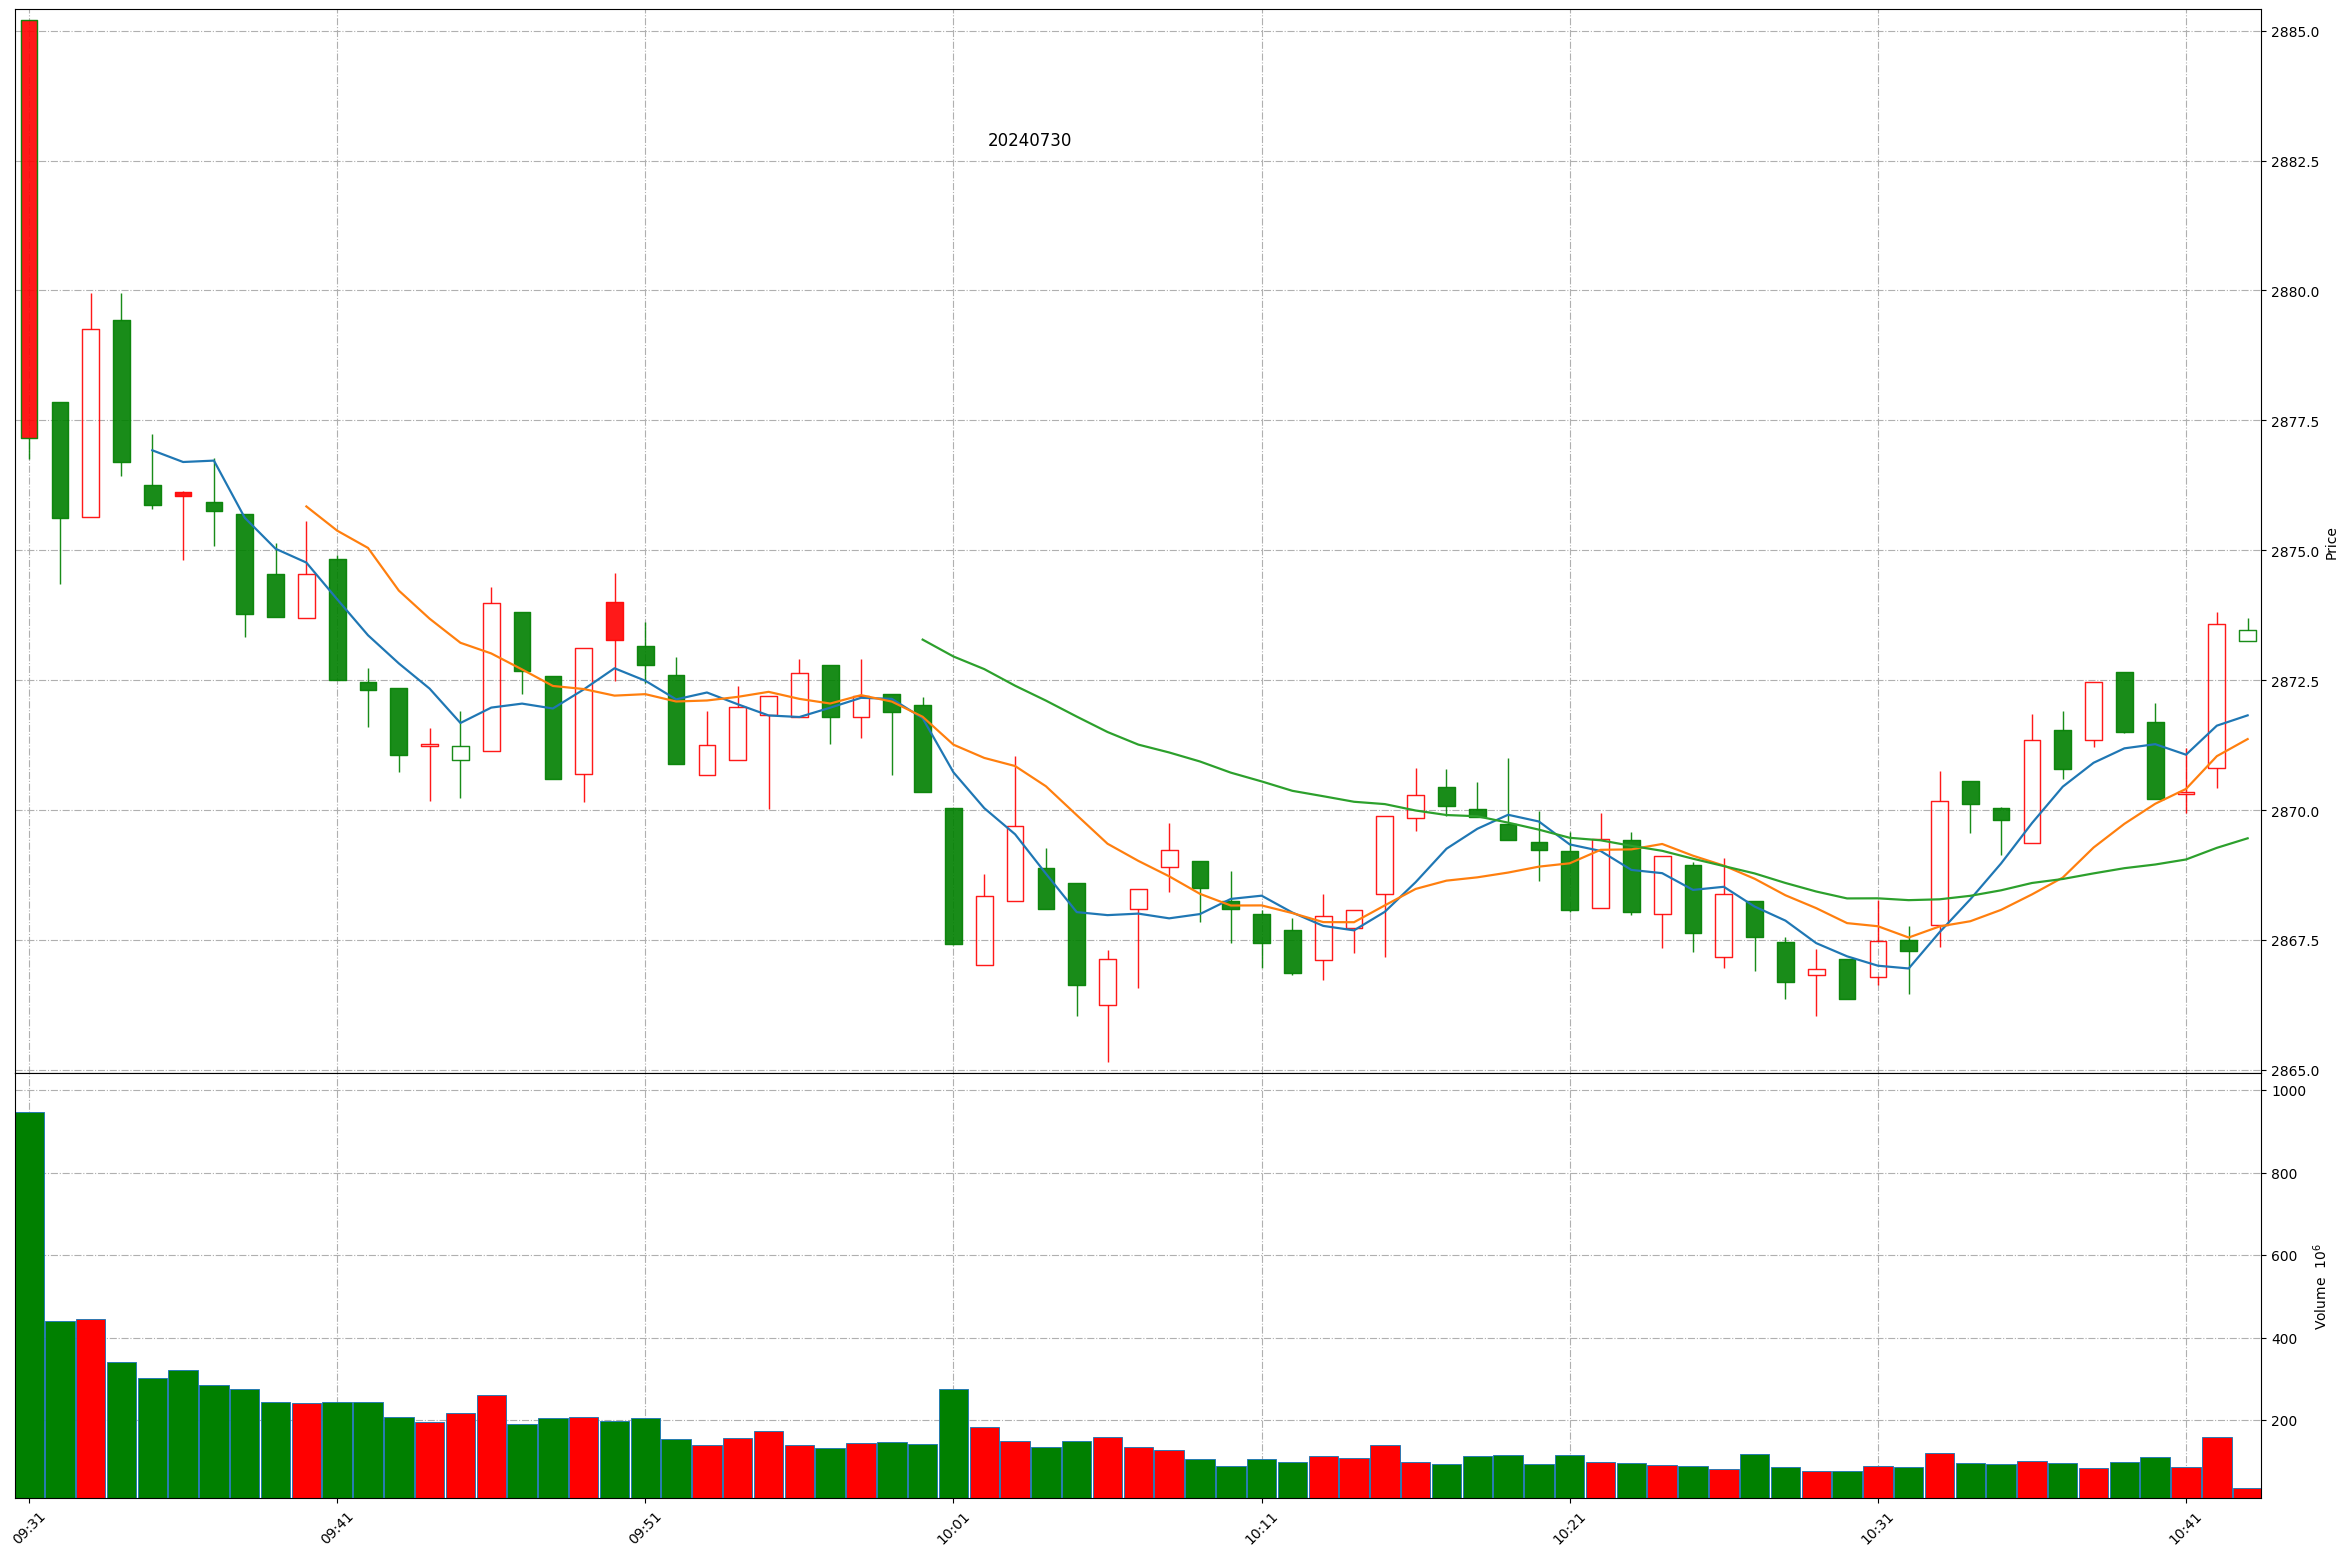
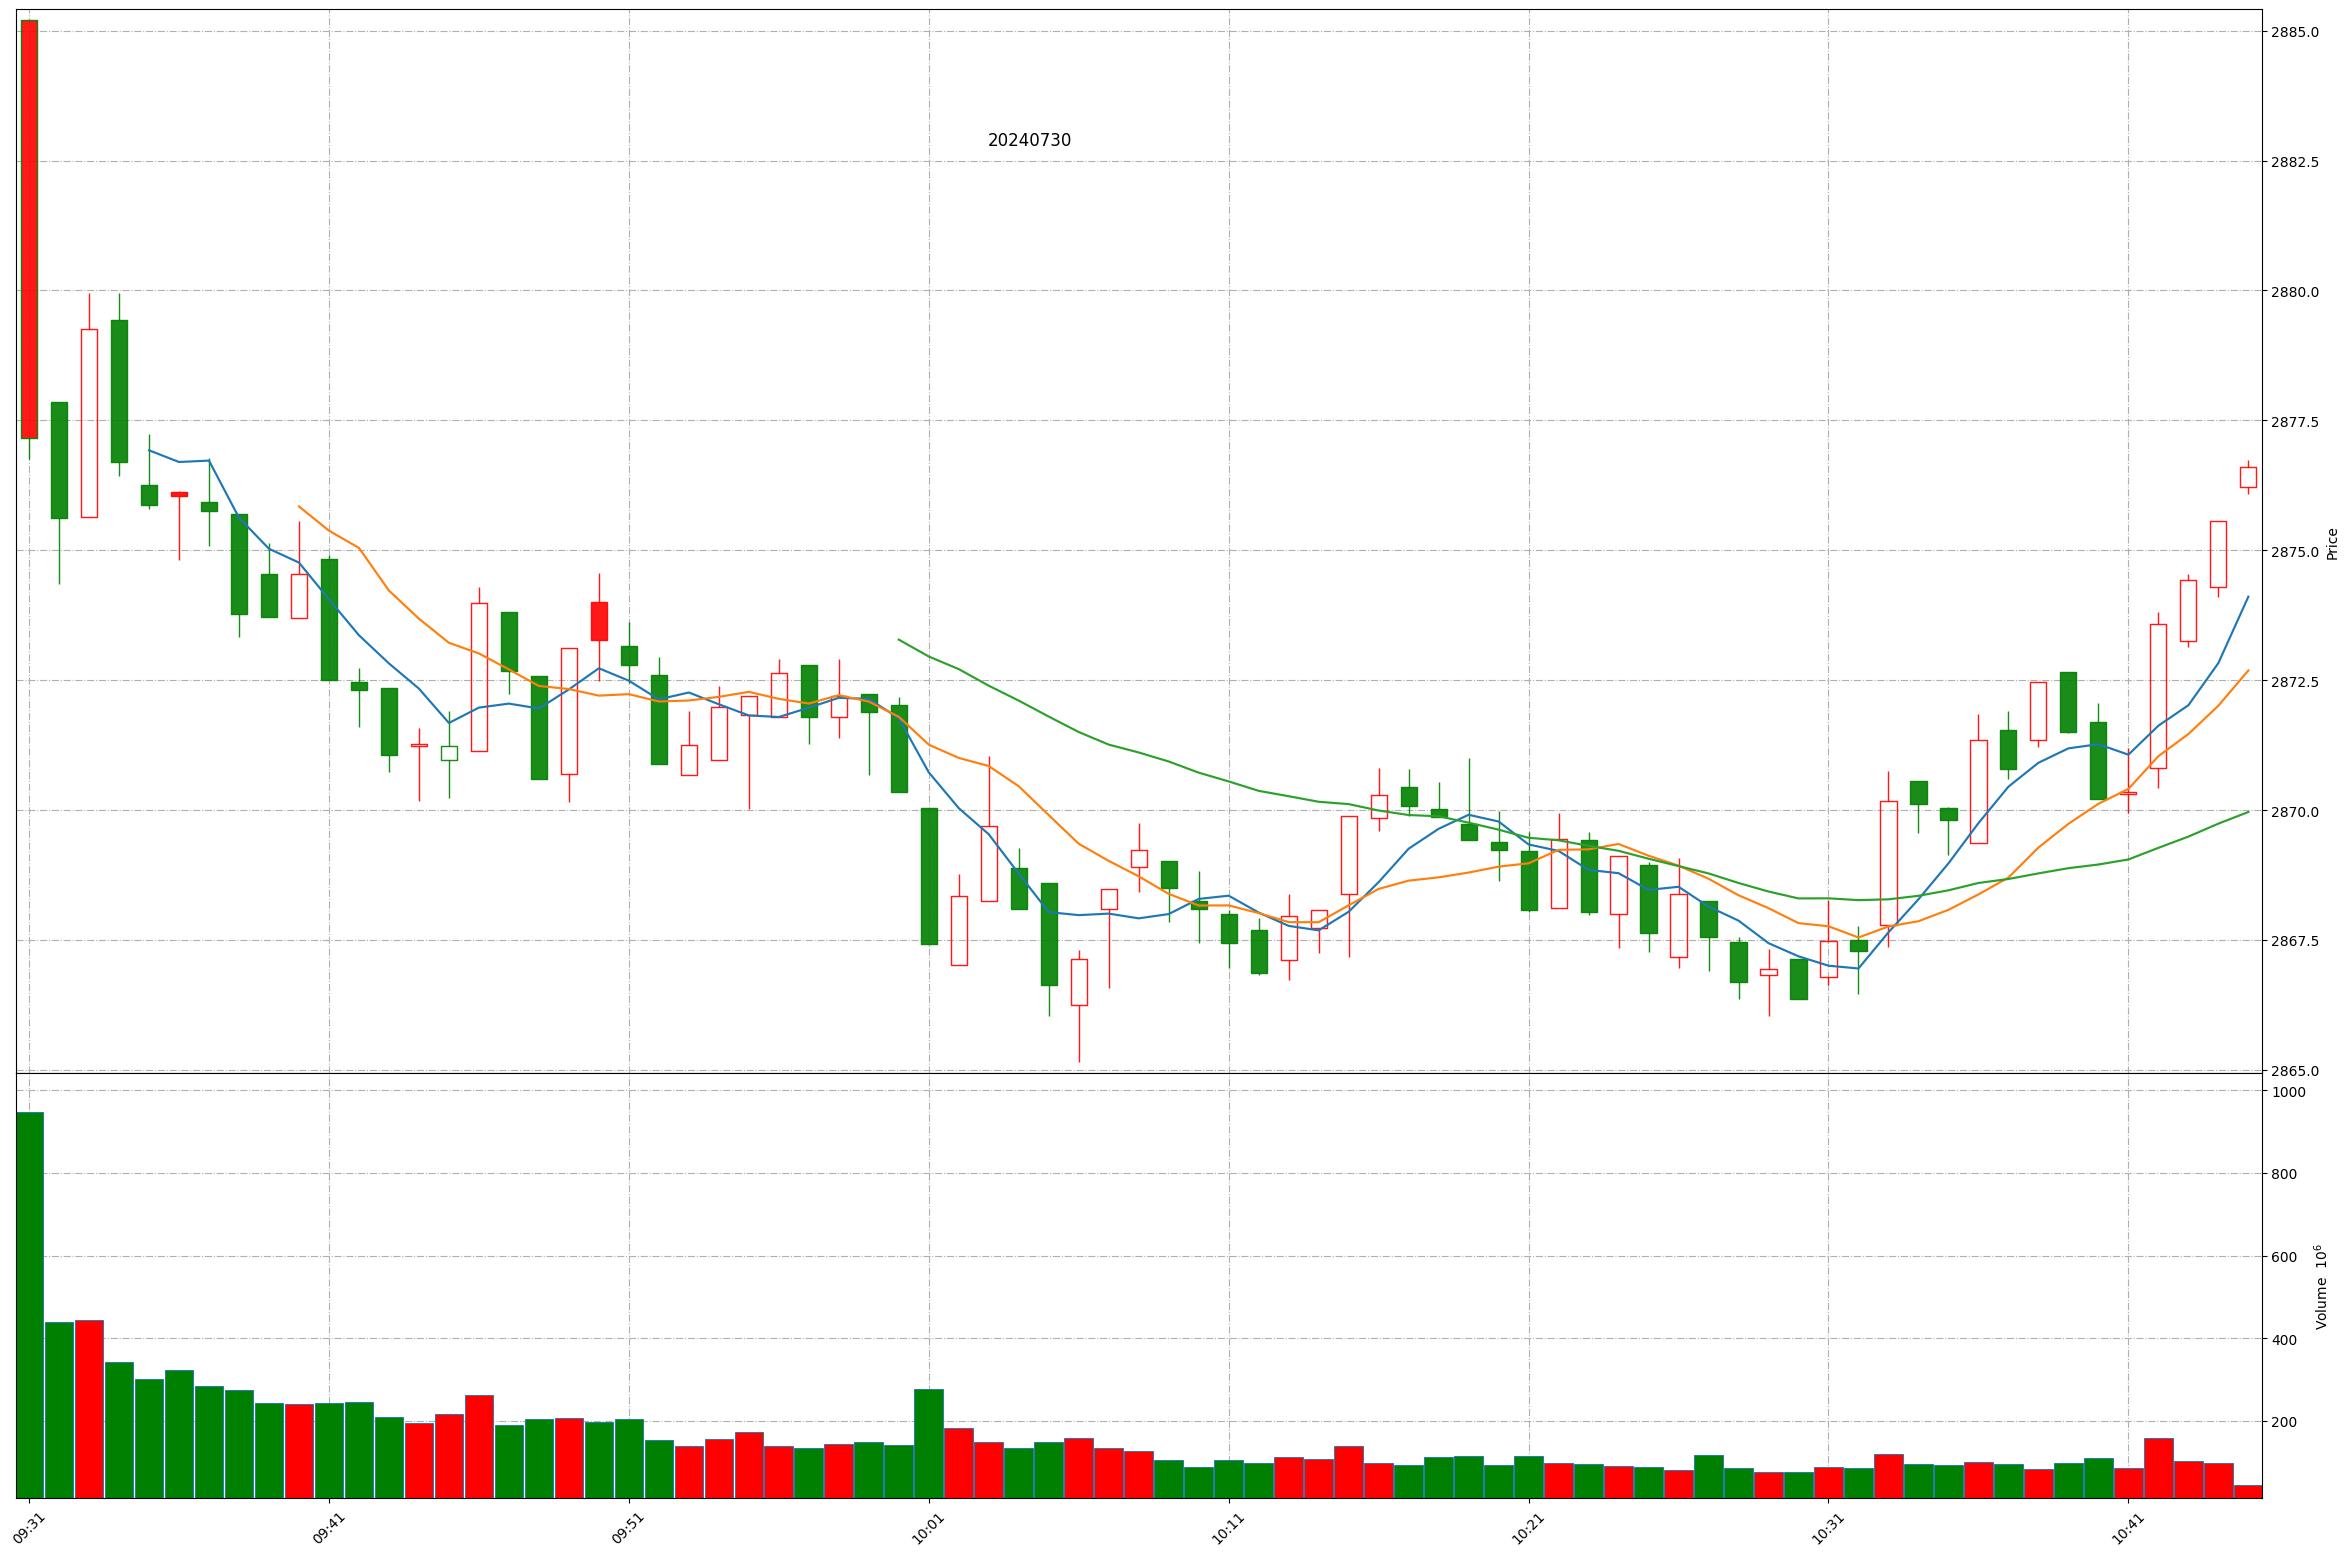
Github action update at 2024-07-30 10:44:43.

diff --git a/README.md b/README.md
@@ -1,11 +1,11 @@
 
 # Daily-A-share-market-quotes 每日 A 股指数（5min 更新）- 20240730
 
-### 上证指数 20240730 10:42
+### 上证指数 20240730 10:44
 ![](./fig/2024/7/20240730-sh000001.png)
 
-### 深证成指 20240730 10:42
+### 深证成指 20240730 10:44
 ![](./fig/2024/7/20240730-sz399001.png)
 
-### 北证50 20240730 10:42
+### 北证50 20240730 10:44
 ![](./fig/2024/7/20240730-bj899050.png)
